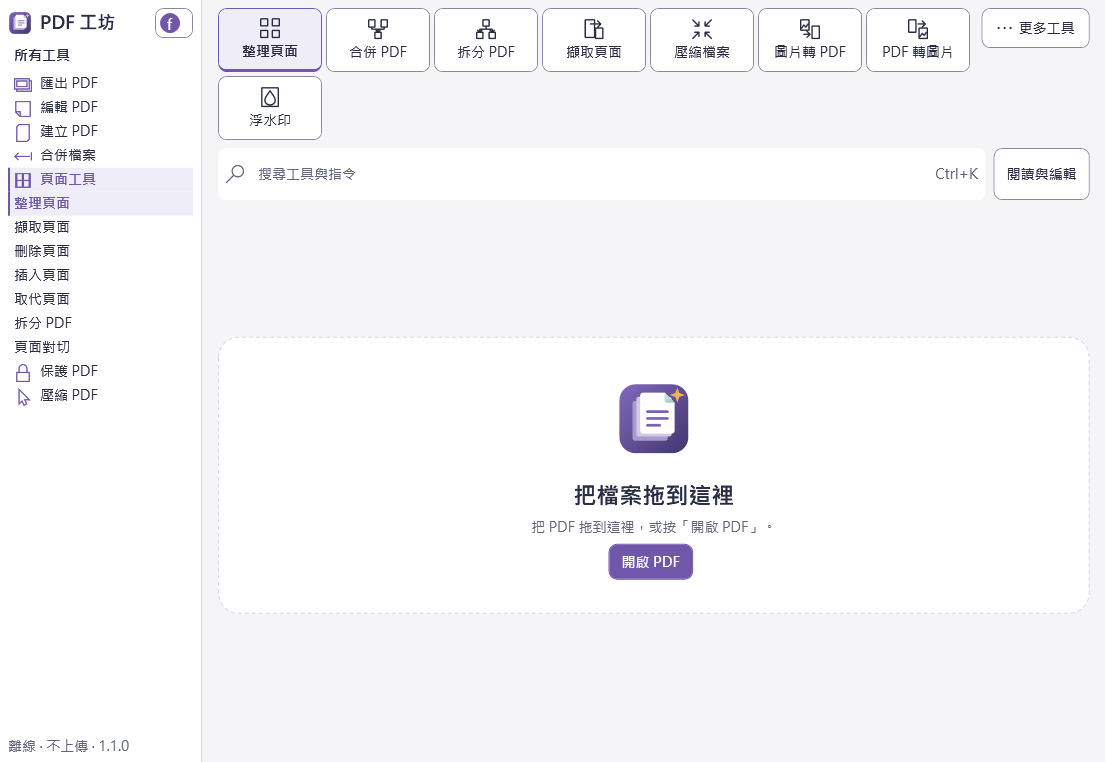
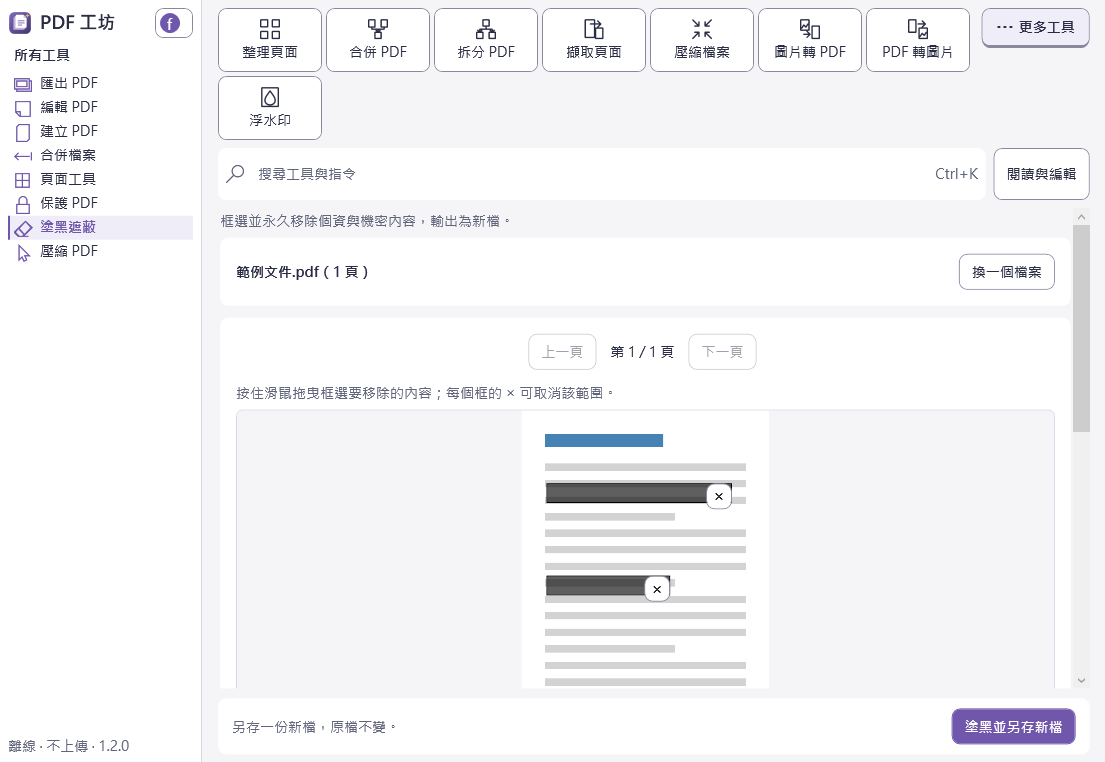
chore: refresh PDF Workshop v1.2.0 interface snapshot

diff --git a/tools/pdf-workshop/index.html b/tools/pdf-workshop/index.html
@@ -42,10 +42,10 @@
           檔案全程只在你的電腦上處理，輸出一律另存新檔，不會覆蓋原檔。
         </p>
         <figure class="tool-screenshot">
-          <a class="tool-screenshot-link" href="../../assets/tools/pdf-workshop/screenshot.png" target="_blank" rel="noopener noreferrer" aria-label="放大查看PDF 工坊介面快照（另開分頁）">
-            <img src="../../assets/tools/pdf-workshop/screenshot.png" alt="PDF 工坊 v1.1.0 實際介面，未載入使用者檔案" width="1105" height="762" decoding="async">
+          <a class="tool-screenshot-link" href="../../assets/tools/pdf-workshop/screenshot.png?v=20261012a" target="_blank" rel="noopener noreferrer" aria-label="放大查看PDF 工坊介面快照（另開分頁）">
+            <img src="../../assets/tools/pdf-workshop/screenshot.png?v=20261012a" alt="PDF 工坊 v1.2.0 實際介面，未載入使用者檔案" width="1105" height="762" decoding="async">
           </a>
-          <figcaption>介面快照 · v1.1.0 · 點圖放大</figcaption>
+          <figcaption>介面快照 · v1.2.0 · 點圖放大</figcaption>
         </figure>
         <div class="hero-meta">
           <span class="version-badge" data-version>載入中…</span>
